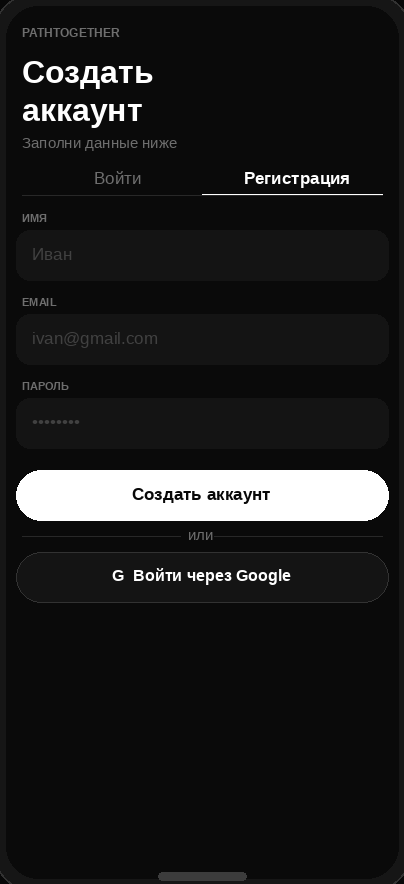
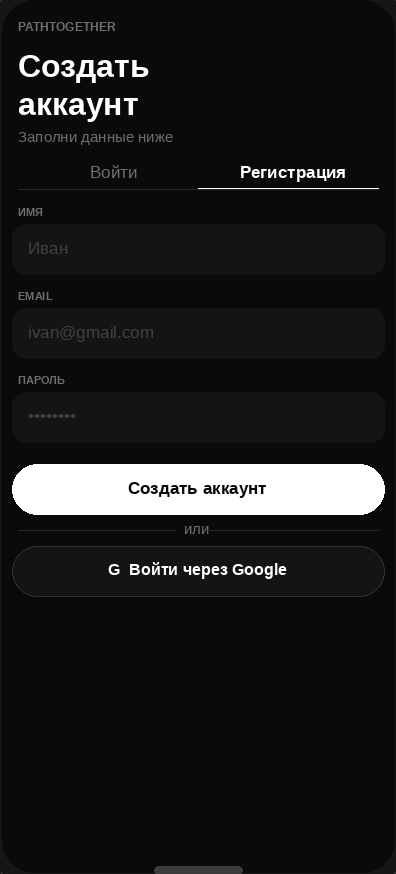
fix(web): de-zoom screenshots and stop hero phones overflowing
- re-crop to exact screen interior (no bezel sliver), drop the
  scale(1.045) zoom so full app screen is visible and nothing is clipped
- shrink hero devices (280/205) and raise stage height; tighten fan
  spread and parallax depth so phones no longer spill into the proof strip

diff --git a/web/index.html b/web/index.html
@@ -73,13 +73,13 @@ img{max-width:100%;display:block}
 .btn-lg{padding:16px 28px;font-size:16px}
 
 /* ---------- device frame ---------- */
-.device{position:relative;width:var(--dw,280px);aspect-ratio:404/884;border-radius:42px;
+.device{position:relative;width:var(--dw,280px);aspect-ratio:396/874;border-radius:42px;
   background:var(--bezel);padding:9px;
   box-shadow:0 34px 70px rgba(0,0,0,.55),0 6px 18px rgba(0,0,0,.4),inset 0 1px 1px rgba(255,255,255,.08)}
 .device::before{content:"";position:absolute;top:8px;left:50%;transform:translateX(-50%);
   width:34%;height:5px;border-radius:3px;background:rgba(255,255,255,.07);z-index:3}
 .device .screen{width:100%;height:100%;border-radius:33px;overflow:hidden;background:#0a0a0a;position:relative}
-.device .screen img{width:100%;height:100%;object-fit:cover;object-position:top center;transform:scale(1.045)}
+.device .screen img{width:100%;height:100%;object-fit:cover;object-position:top center}
 .device .glare{position:absolute;inset:0;border-radius:33px;pointer-events:none;
   background:linear-gradient(135deg,rgba(255,255,255,.10),transparent 35%);mix-blend-mode:screen}
 
@@ -120,12 +120,12 @@ h1{font-size:clamp(40px,7vw,76px);font-weight:900;letter-spacing:-.035em;line-he
 .hero-note{margin-top:18px;font-size:13px;color:var(--text3)}
 
 /* hero stage with layered devices */
-.stage{position:relative;height:600px;margin-top:24px}
+.stage{position:relative;height:640px;margin-top:24px}
 .dev-pos{position:absolute;left:50%;transition:transform .3s var(--ease);
   transform:translate(calc(-50% + var(--tx,0px)),var(--ty,0px)) rotate(var(--rot,0deg))}
-.p-main{--rot:0deg;z-index:3;top:6px}
-.p-left{--rot:-9deg;z-index:2;margin-left:-330px;top:84px;opacity:.92}
-.p-right{--rot:9deg;z-index:2;margin-left:330px;top:84px;opacity:.92}
+.p-main{--rot:0deg;z-index:3;top:10px}
+.p-left{--rot:-8deg;z-index:2;margin-left:-280px;top:96px;opacity:.92}
+.p-right{--rot:8deg;z-index:2;margin-left:280px;top:96px;opacity:.92}
 .p-left .device,.p-right .device{box-shadow:0 30px 60px rgba(0,0,0,.6)}
 .floaty{animation:float 6s ease-in-out infinite}
 .p-left .floaty{animation-duration:7s;animation-delay:.4s}
@@ -297,9 +297,9 @@ footer{border-top:1px solid var(--border);padding:56px 0 40px;margin-top:40px}
     </div>
     <div class="hero-note reveal" style="transition-delay:.24s" data-i18n="hero_note">Бесплатно · Гостевой режим без регистрации</div>
     <div class="stage" id="stage">
-      <div class="dev-pos p-left" data-depth="18"><div class="device floaty" style="--dw:235px"><div class="screen"><img src="img/phone-habits.png" alt=""/><span class="glare"></span></div></div></div>
-      <div class="dev-pos p-right" data-depth="18"><div class="device floaty" style="--dw:235px"><div class="screen"><img src="img/phone-mood.png" alt=""/><span class="glare"></span></div></div></div>
-      <div class="dev-pos p-main" data-depth="34"><div class="device floaty" style="--dw:312px"><div class="screen"><img src="img/phone-today.png" alt="PathTogether — сегодня"/><span class="glare"></span></div></div></div>
+      <div class="dev-pos p-left" data-depth="12"><div class="device floaty" style="--dw:205px"><div class="screen"><img src="img/phone-habits.png" alt=""/><span class="glare"></span></div></div></div>
+      <div class="dev-pos p-right" data-depth="12"><div class="device floaty" style="--dw:205px"><div class="screen"><img src="img/phone-mood.png" alt=""/><span class="glare"></span></div></div></div>
+      <div class="dev-pos p-main" data-depth="22"><div class="device floaty" style="--dw:280px"><div class="screen"><img src="img/phone-today.png" alt="PathTogether — сегодня"/><span class="glare"></span></div></div></div>
     </div>
   </div>
 </section>
